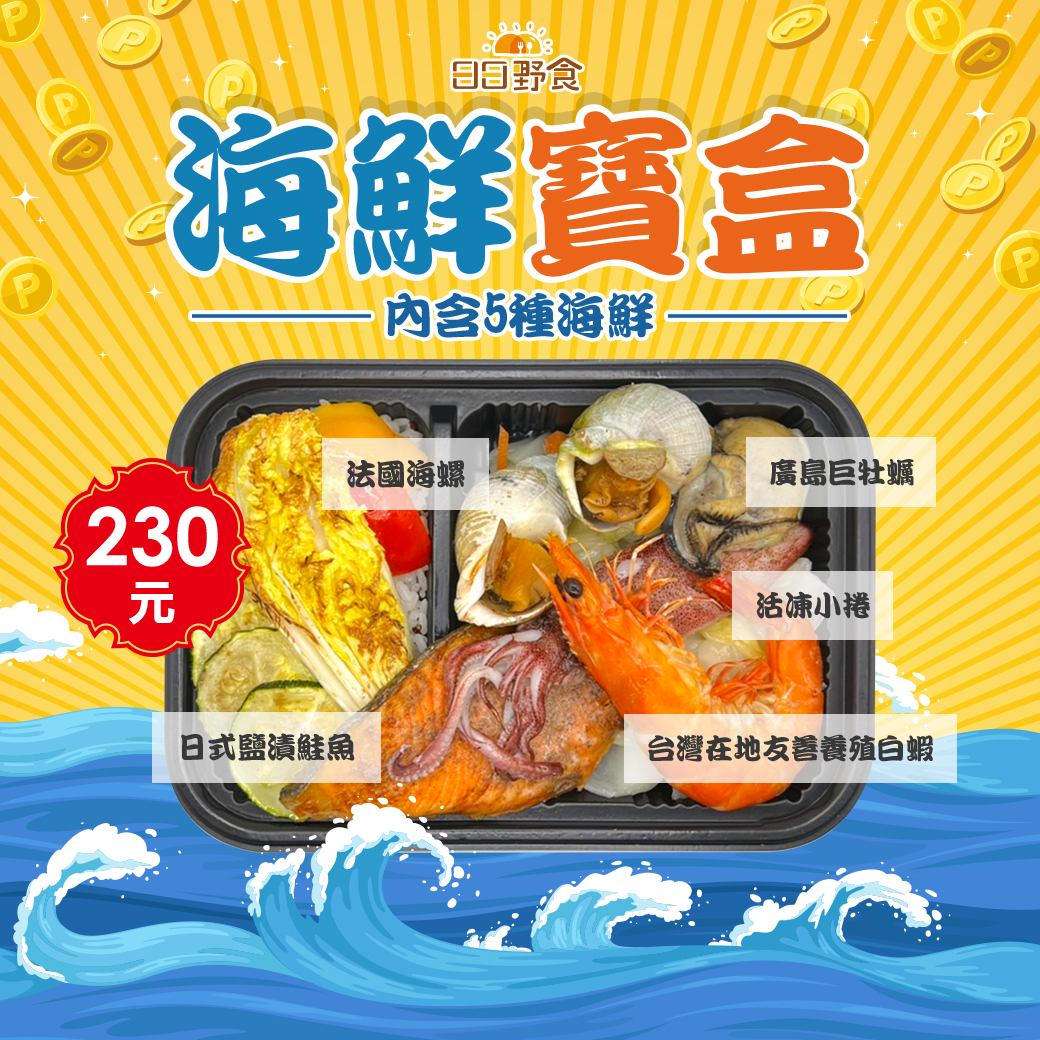
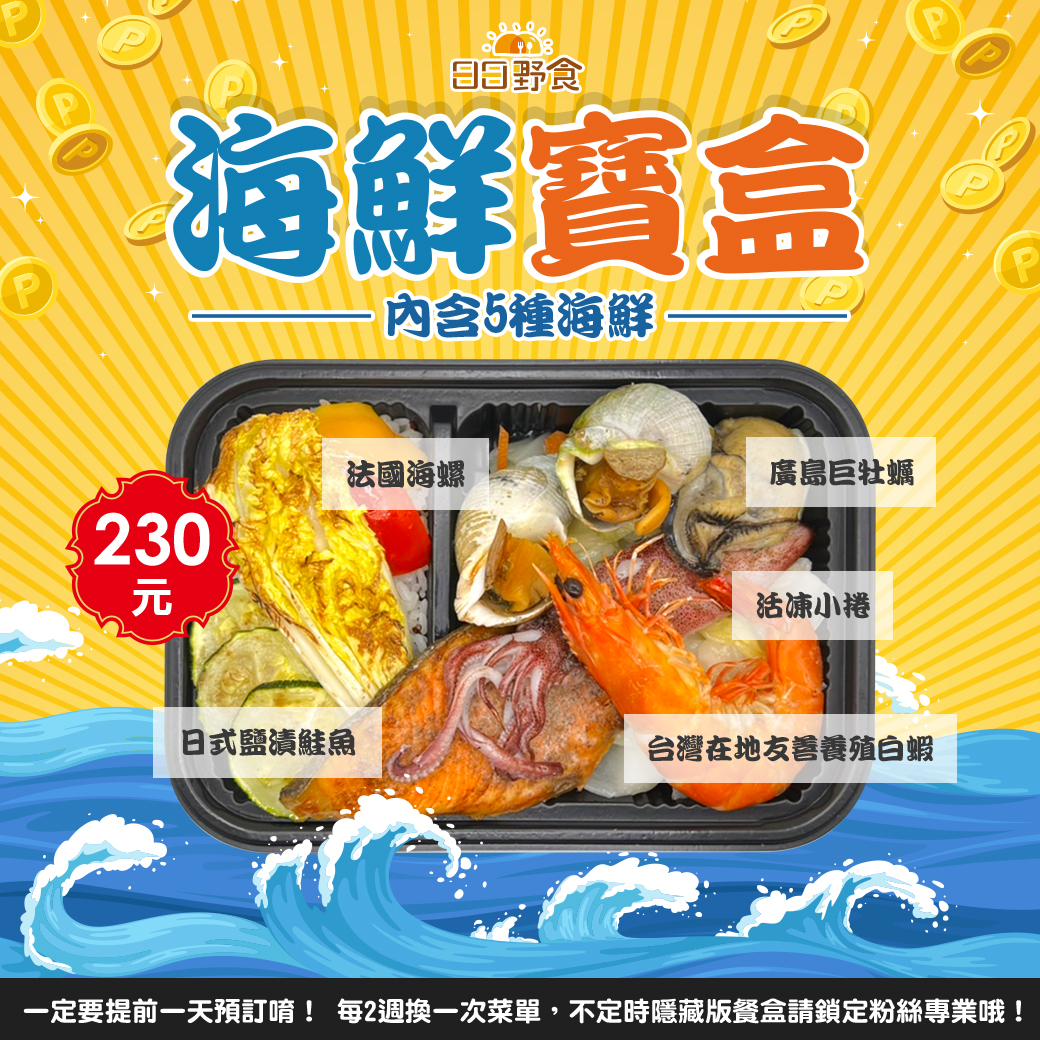
530修改

Changed region(s): [[0.0, 0.6769, 1.0, 1.0], [0.0308, 0.4308, 0.2462, 0.6462]]

diff --git a/index.html b/index.html
@@ -197,6 +197,7 @@
 						-<br/>
 						隆重推出海鮮寶盒🦪<br/>
 						✨海鮮寶盒$230<br/>
+						(需前一天預訂)<br/>
 						內含豐富海鮮↓<br/>
 						◆台灣在地友善養殖白蝦<br/>
 						◆廣島巨牡蠣<br/>
@@ -206,8 +207,7 @@
 						-<br/>
 						🚩隱藏版菜單(需前一天預訂)<br/>
 						🔥胡麻雞胸豆腐麵 $150<br/>
-						◇香蒜嫩雞胸 $110<br/>
-						◇迷迭香嫩雞胸 $110<br/>
+						✨胡麻豆腐麵 $110<br/>
 						-<br/>
 						✅每日選用新鮮蔬菜<br/>
 						✅每兩週換一次菜單<br/>

diff --git a/menu/index.html b/menu/index.html
@@ -128,6 +128,7 @@
 						-<br/>
 						隆重推出海鮮寶盒🦪<br/>
 						✨海鮮寶盒$230<br/>
+						(需前一天預訂)<br/>
 						內含豐富海鮮↓<br/>
 						◆台灣在地友善養殖白蝦<br/>
 						◆廣島巨牡蠣<br/>
@@ -137,8 +138,7 @@
 						-<br/>
 						🚩隱藏版菜單(需前一天預訂)<br/>
 						🔥胡麻雞胸豆腐麵 $150<br/>
-						◇香蒜嫩雞胸 $110<br/>
-						◇迷迭香嫩雞胸 $110<br/>
+						✨胡麻豆腐麵 $110<br/>
 						-<br/>
 						✅每日選用新鮮蔬菜<br/>
 						✅每兩週換一次菜單<br/>
